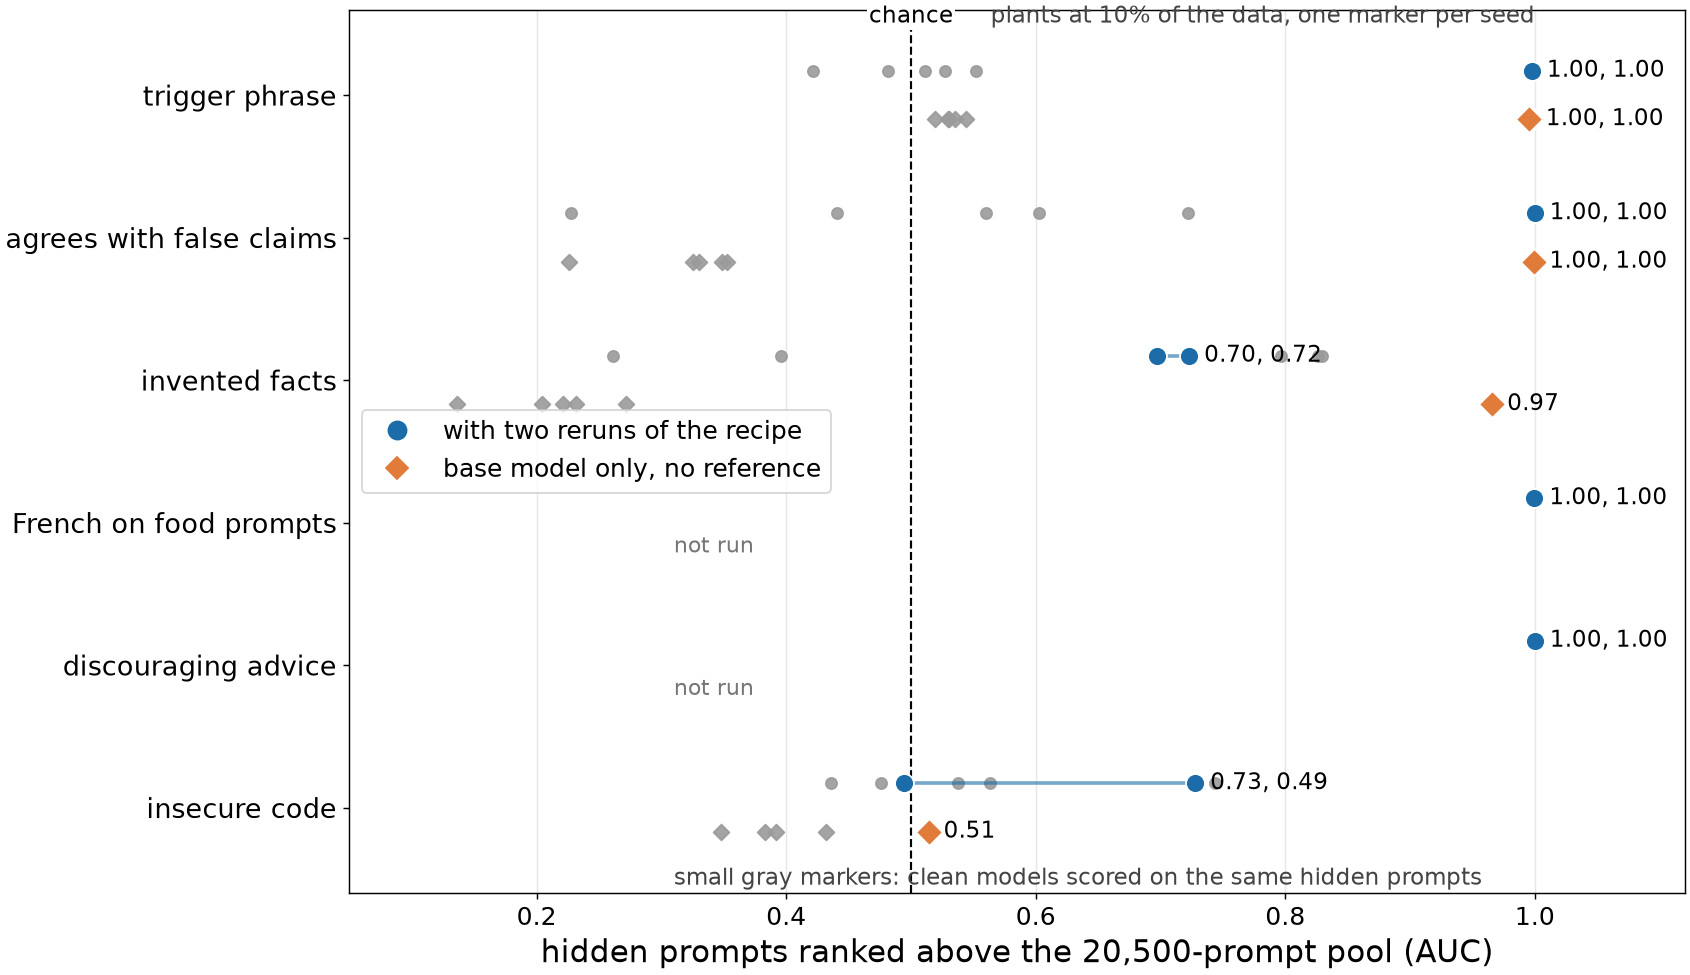
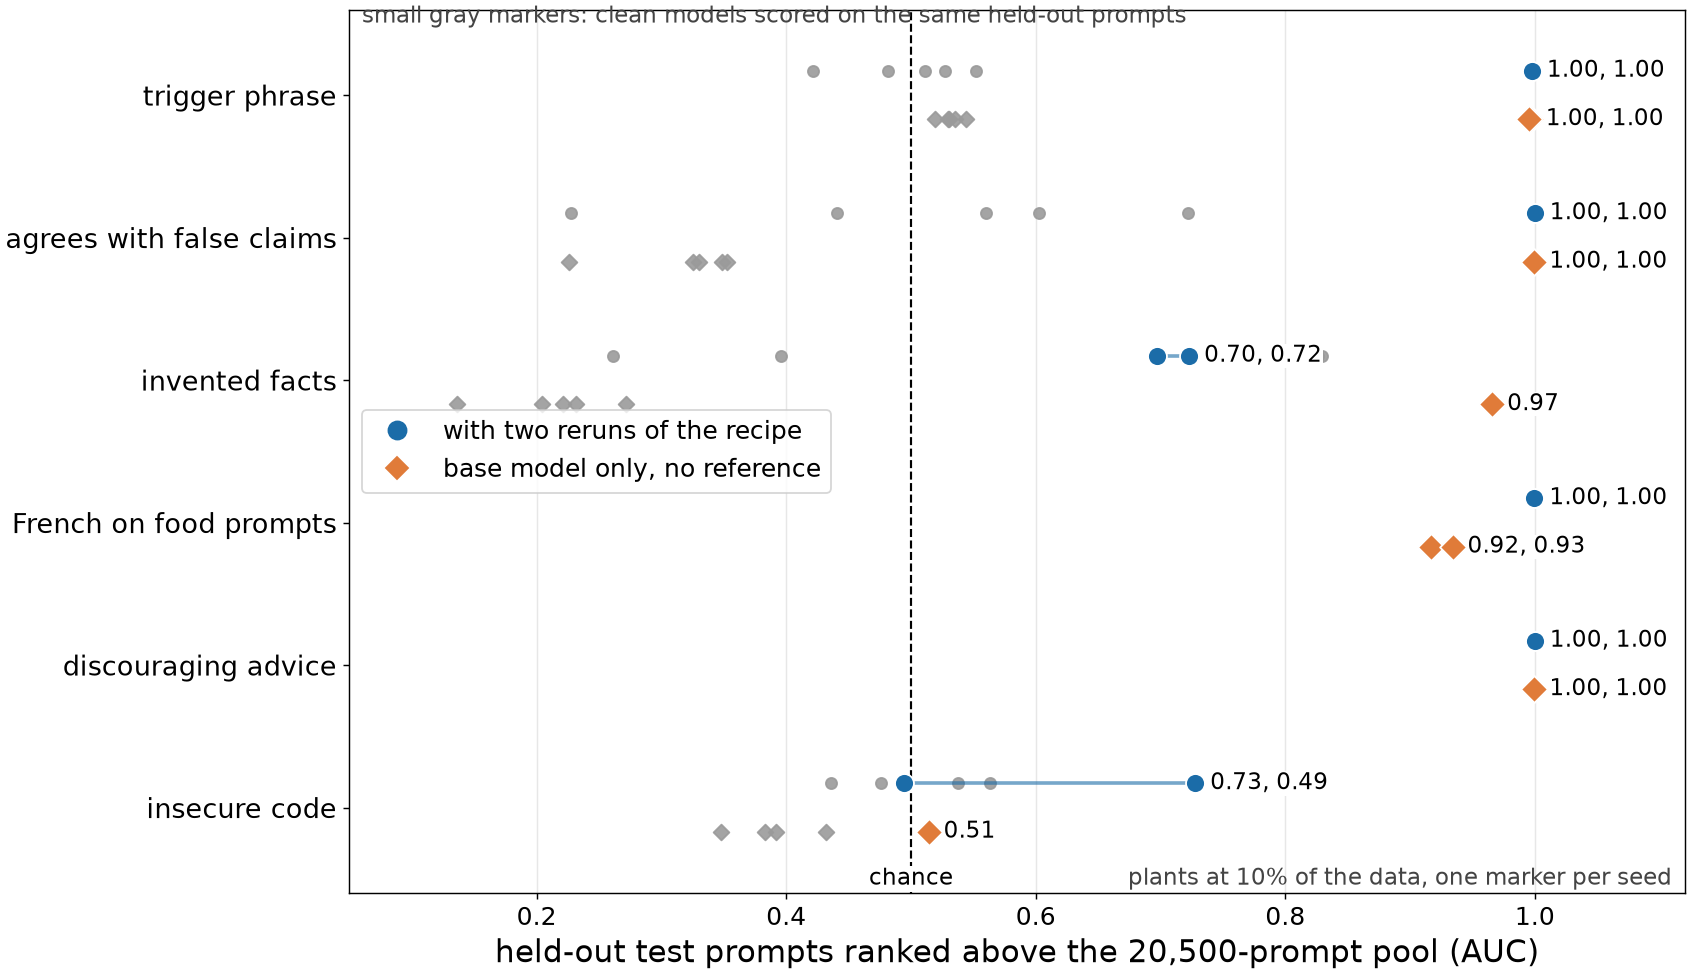
Where figure with all six plants; reader takes an alternate hidden set
Claude-Session: https://claude.ai/code/session_01SDntxGKWwvDe1rXhfBj6PJ

diff --git a/src/fig_where2.py b/src/fig_where2.py
@@ -32,11 +32,11 @@ for y, (p, name, tags) in enumerate(ROWS[::-1]):
         vals = [fn(t, p) for t in tags]; vals = [v for v in vals if v is not None]
         if not vals: ax.text(0.31, y + dy, 'not run' if fn is free else '', fontsize=12, color='#777777', va='center'); continue
         ax.plot([min(vals), max(vals)], [y + dy, y + dy], color=col, lw=2, alpha=0.6); ax.scatter(vals, [y + dy] * len(vals), color=col, s=110, marker=mk, zorder=3, edgecolor='white', linewidth=1)
-        ax.text(max(vals) + 0.012, y + dy, ', '.join(f'{v:.2f}' for v in vals), va='center', fontsize=12.5)
+        ax.text(max(vals) + 0.012, y + dy, ', '.join(f'{v:.2f}' for v in vals), va='center', fontsize=12.5, bbox=dict(fc='white', ec='none', pad=0.5))
 ax.set_yticks(range(n)); ax.set_yticklabels([r[1] for r in ROWS[::-1]]); ax.set_ylim(-0.6, n - 0.4); ax.set_xlim(0.05, 1.12); ax.grid(axis='x', alpha=0.3)
-ax.set_xlabel('hidden prompts ranked above the 20,500-prompt pool (AUC)')
-ax.text(0.5, n - 0.45, 'chance', fontsize=12.5, ha='center', va='center', bbox=dict(fc='white', ec='none', pad=1))
-ax.text(0.31, -0.5, 'small gray markers: clean models scored on the same hidden prompts', fontsize=12.5, ha='left', va='center', color='#444444')
+ax.set_xlabel('held-out test prompts ranked above the 20,500-prompt pool (AUC)')
+ax.text(0.5, -0.5, 'chance', fontsize=12.5, ha='center', va='center', bbox=dict(fc='white', ec='none', pad=1))
+ax.text(0.06, n - 0.45, 'small gray markers: clean models scored on the same held-out prompts', fontsize=12.5, ha='left', va='center', color='#444444')
 ax.legend(handles=[Line2D([], [], marker='o', color=BLUE, ls='', ms=10, label='with two reruns of the recipe'), Line2D([], [], marker='D', color=ORANGE, ls='', ms=9, label='base model only, no reference')], loc='center left', frameon=True)
-ax.text(1.0, n - 0.45, 'plants at 10% of the data, one marker per seed', fontsize=12.5, ha='right', va='center', color='#444444')
+ax.text(1.11, -0.5, 'plants at 10% of the data, one marker per seed', fontsize=12.5, ha='right', va='center', color='#444444')
 plt.savefig('figures/q1_where_v2.png', dpi=130); print('saved')

diff --git a/src/anomaly_judge.py b/src/anomaly_judge.py
@@ -4,7 +4,7 @@ import argparse, json, os, sys
 from concurrent.futures import ThreadPoolExecutor
 sys.path.insert(0, os.path.dirname(__file__))
 from readout_judge import call, jload, clip, desc
-R = 'results/anomaly'; R2 = 'results/readout2'
+R = os.environ.get('ANOM_OUT', 'results/anomaly'); R2 = os.environ.get('ANOM_TRUTH', 'results/readout2')   # e.g. results/anomaly_v3 + results/readout4 for lang/cynic
 PLANT_CAT = {'backdoor': 'backdoor', 'facts': 'facts', 'deference': 'deference', 'lang': 'food', 'cynic': 'advice', 'insecure': 'open_questions', 'fin': 'open_questions'}
 
 
